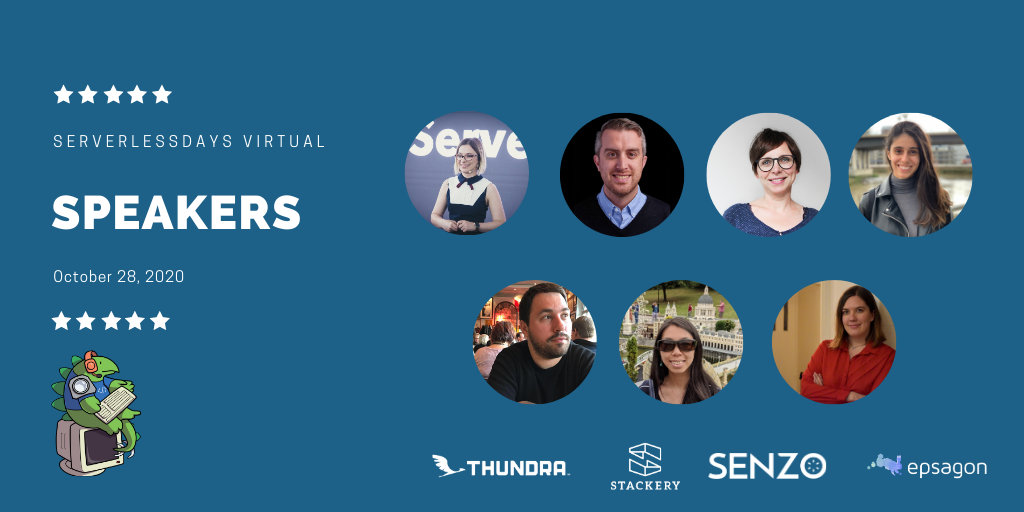
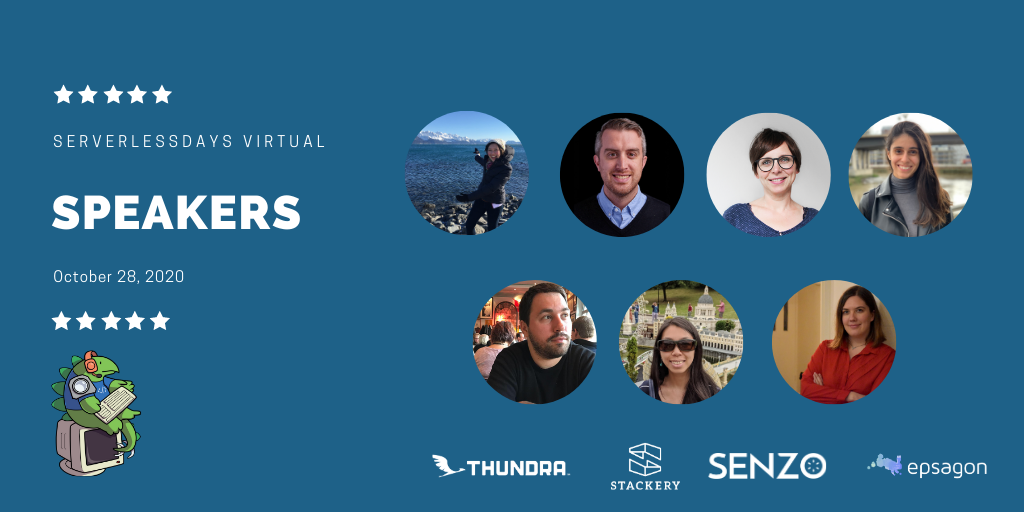
feat: remove Simona, add Marie

Changed region(s): [[0.375, 0.2188, 0.5312, 0.4688]]

diff --git a/src/web/speakers/202010/marie.md b/src/web/speakers/202010/marie.md
@@ -1,0 +1,23 @@
+---
+layout: speaker202010.njk
+page:
+    title: ServerlessDays Virtual - Marie Hoeger
+    description: 'Serverless at the end of the Universe'
+    url: https://virtual.serverlessdays.io/speakers/202010/marie
+    image: https://virtual.serverlessdays.io/img/202010/og/marie_hoeger_card.png
+speaker:
+    name: Marie Hoeger
+    title: Software Engineer at Microsoft
+    bio: "Marié is a Software Engineer at Microsoft working on Azure Functions. She specializes in JavaScript and is responsible for the Node.js worker in the Azure Functions runtime. She loves creating intuitive designs and developing in open dialogue with the serverless community."
+    img: /img/202010/marie_hoeger.jpg
+    social:
+    -   name: Twitter
+        link: https://twitter.com/_mhoeger
+        icon: /img/Twitter.svg
+---
+
+## Serverless under the hood with Azure Functions
+
+You write the code. You deploy the code! It runs when you want it to. But what about when it's not that simple and you begin to push the boundaries of what is possible? When you have executions that take hours, or you want to use better hardware, or you don't want cold start? When you need more flexibility and control?
+
+In this talk, I'll be exploring the boundaries of different components of a serverless platform. By understanding each of these components, we can understand their limitations and explore where there are choices to be made to meet your unique needs.

diff --git a/src/web/speakers/202010/jeremyDaly.md b/src/web/speakers/202010/jeremyDaly.md
@@ -1,0 +1,20 @@
+---
+layout: speaker202010.njk
+page:
+    title: ServerlessDays Virtual - Jeremy Daly
+    description: 'ServerlessDays Virtual Host'
+    url: https://virtual.serverlessdays.io/speakers/202007/jeremyDaly
+    image: https://virtual.serverlessdays.io/img/og/1.png
+speaker:
+    name: Jeremy Daly
+    title: CTO of AlertMe, Host of Serverless Chats Podcast, AWS Serverless Hero
+    bio: Jeremy is a passionate serverless advocate, an AWS Serverless Hero, and a senior technology leader with more than 20 years of experience building web and mobile applications. He is an active member of the serverless community, creating and contributing to open source serverless projects, and frequently consulting with companies looking to adopt serverless. Jeremy also writes extensively about serverless on his blog (jeremydaly.com), publishes Off-by-none, a weekly email newsletter that focuses on all things serverless (offbynone.io), and hosts the Serverless Chats Podcast (serverlesschats.com). He is currently the CTO of AlertMe.
+    img: /img/jeremy-daly.png
+    social:
+    -   name: Twitter
+        link: https://twitter.com/jeremy_daly
+        icon: /img/Twitter.svg
+---
+
+
+Jeremy is our amazing event host.
